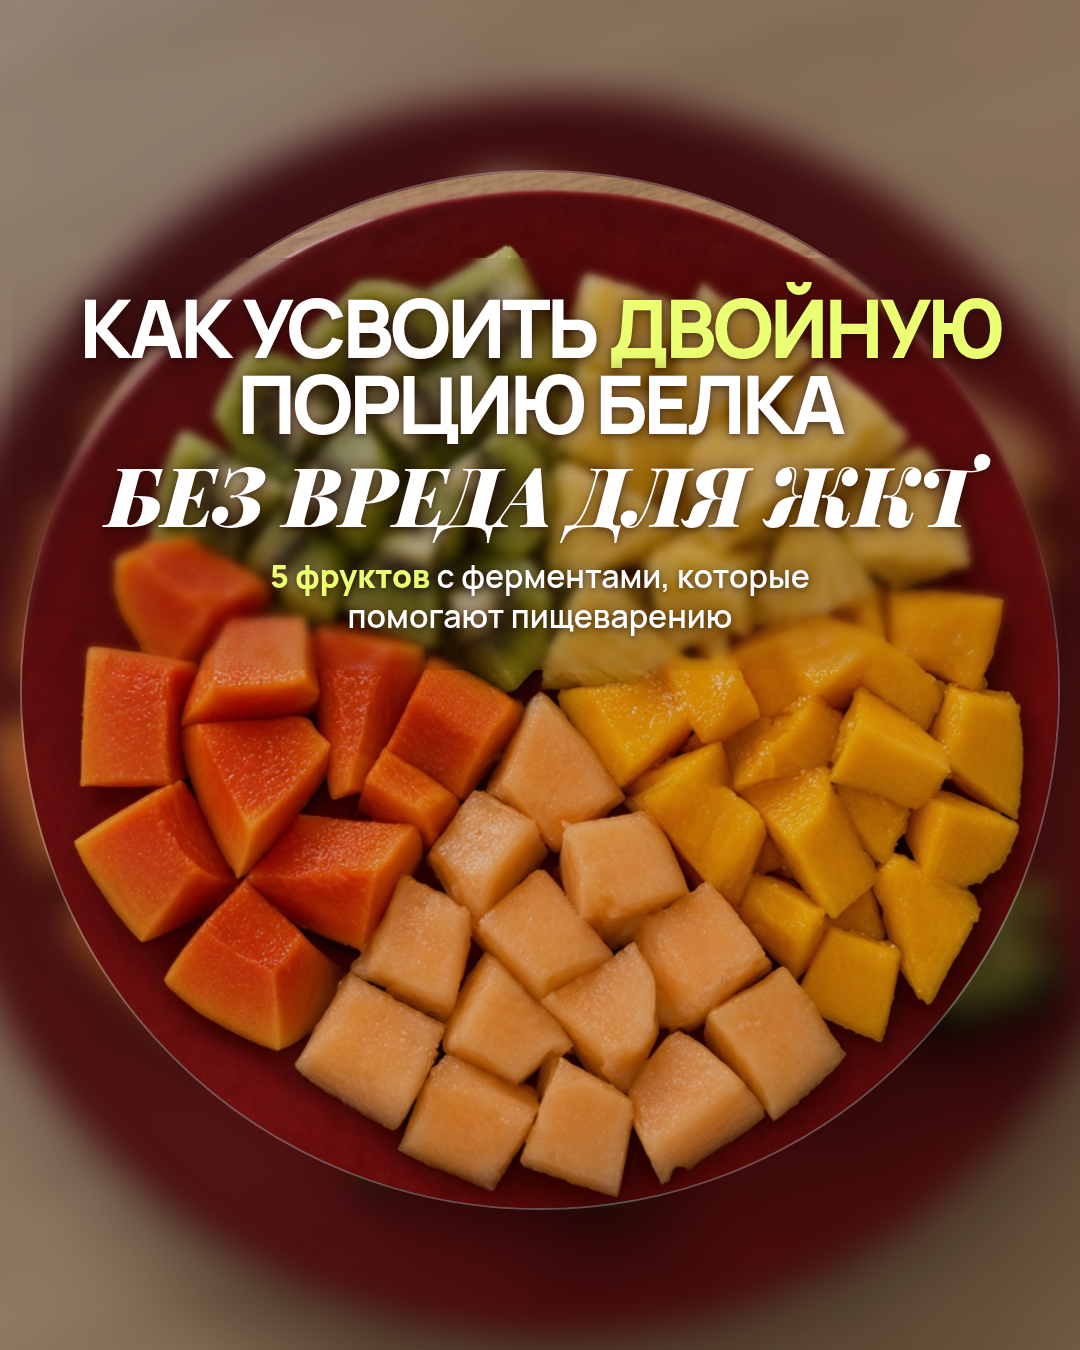
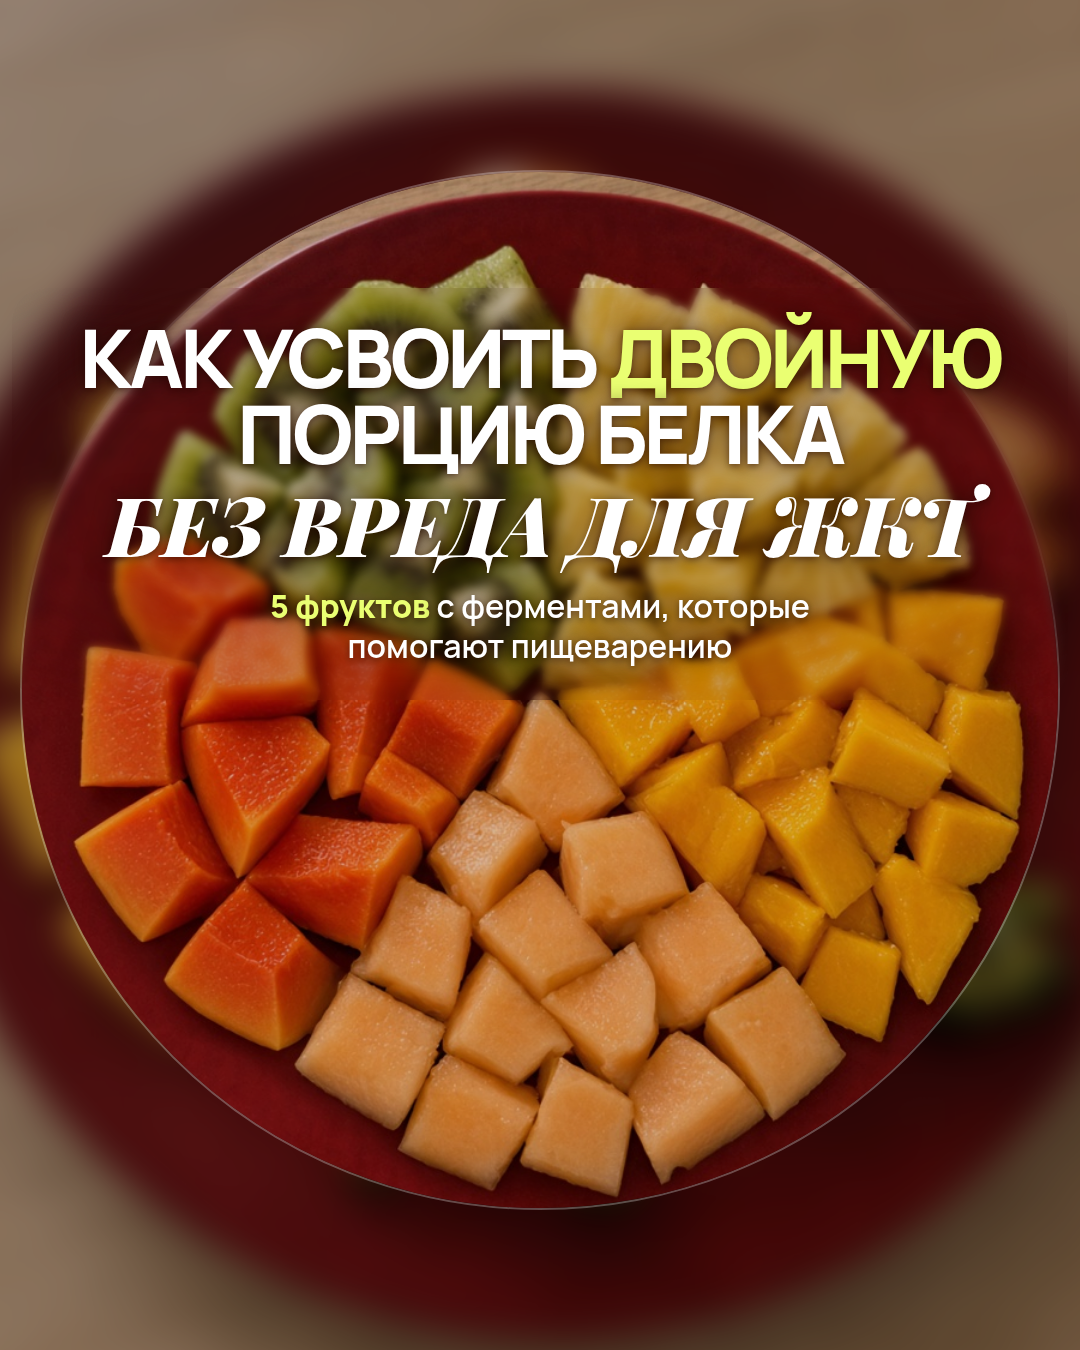
Cover: match mango slide background and lower title

diff --git a/instagram-fruits-zhkt/slide-01-title.html b/instagram-fruits-zhkt/slide-01-title.html
@@ -26,7 +26,7 @@
     .background {
       position: absolute;
       inset: 0;
-      background: url("./papaya-red-plate-natural.jpg") center / cover no-repeat;
+      background: url("./mango-red-plate-natural.jpg") center / cover no-repeat;
       filter: blur(16px) brightness(.72) saturate(.8);
       transform: scale(1.12);
     }
@@ -53,7 +53,7 @@
     .title {
       position: absolute;
       z-index: 5;
-      top: 290px;
+      top: 320px;
       left: 40px;
       right: 40px;
       text-align: center;
